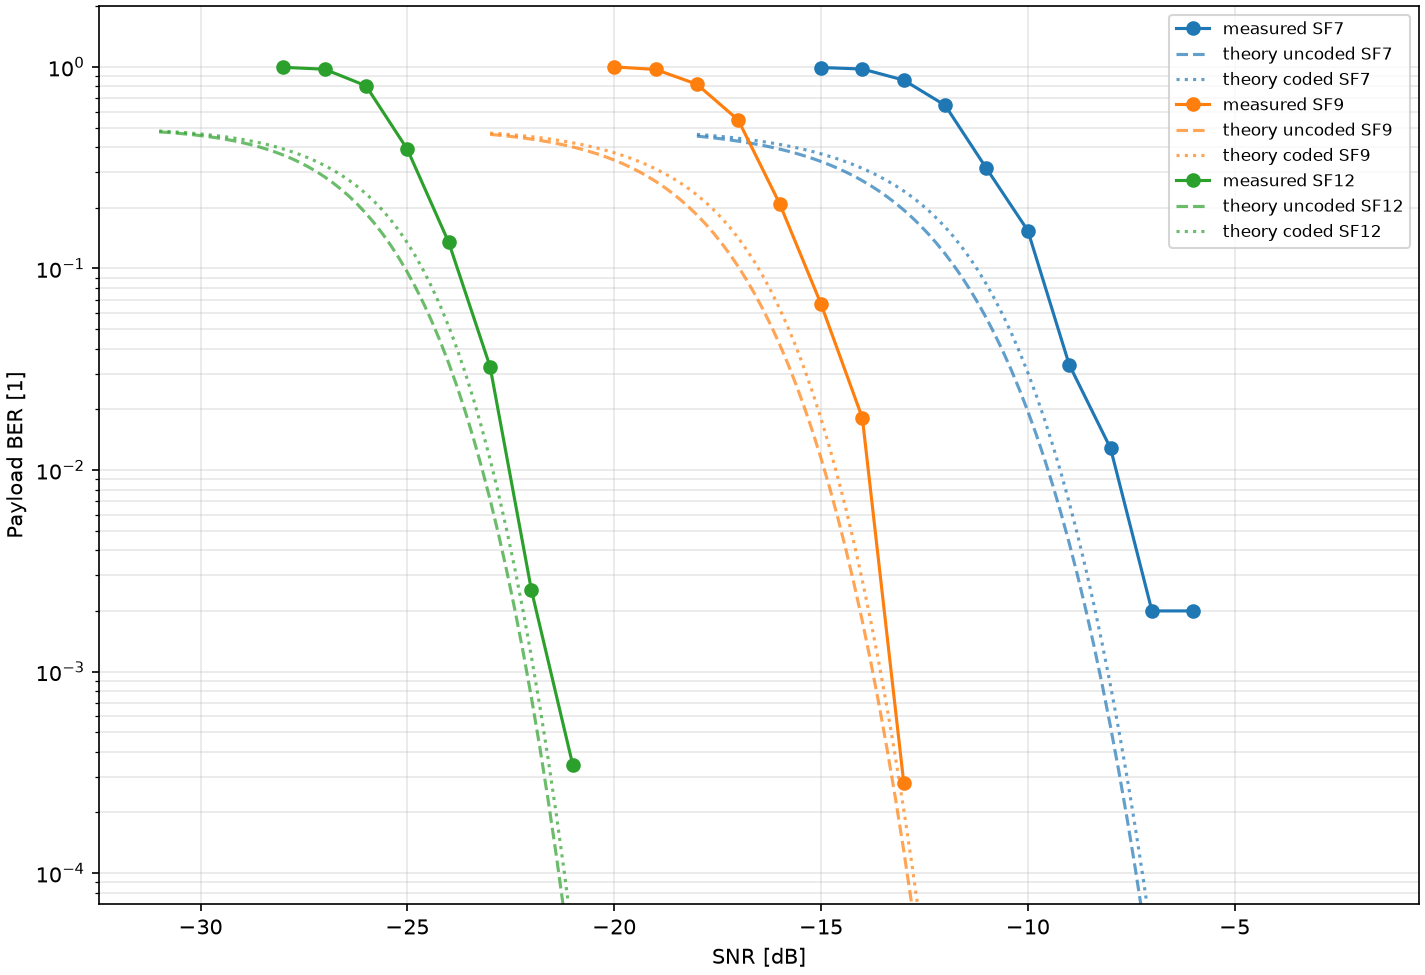
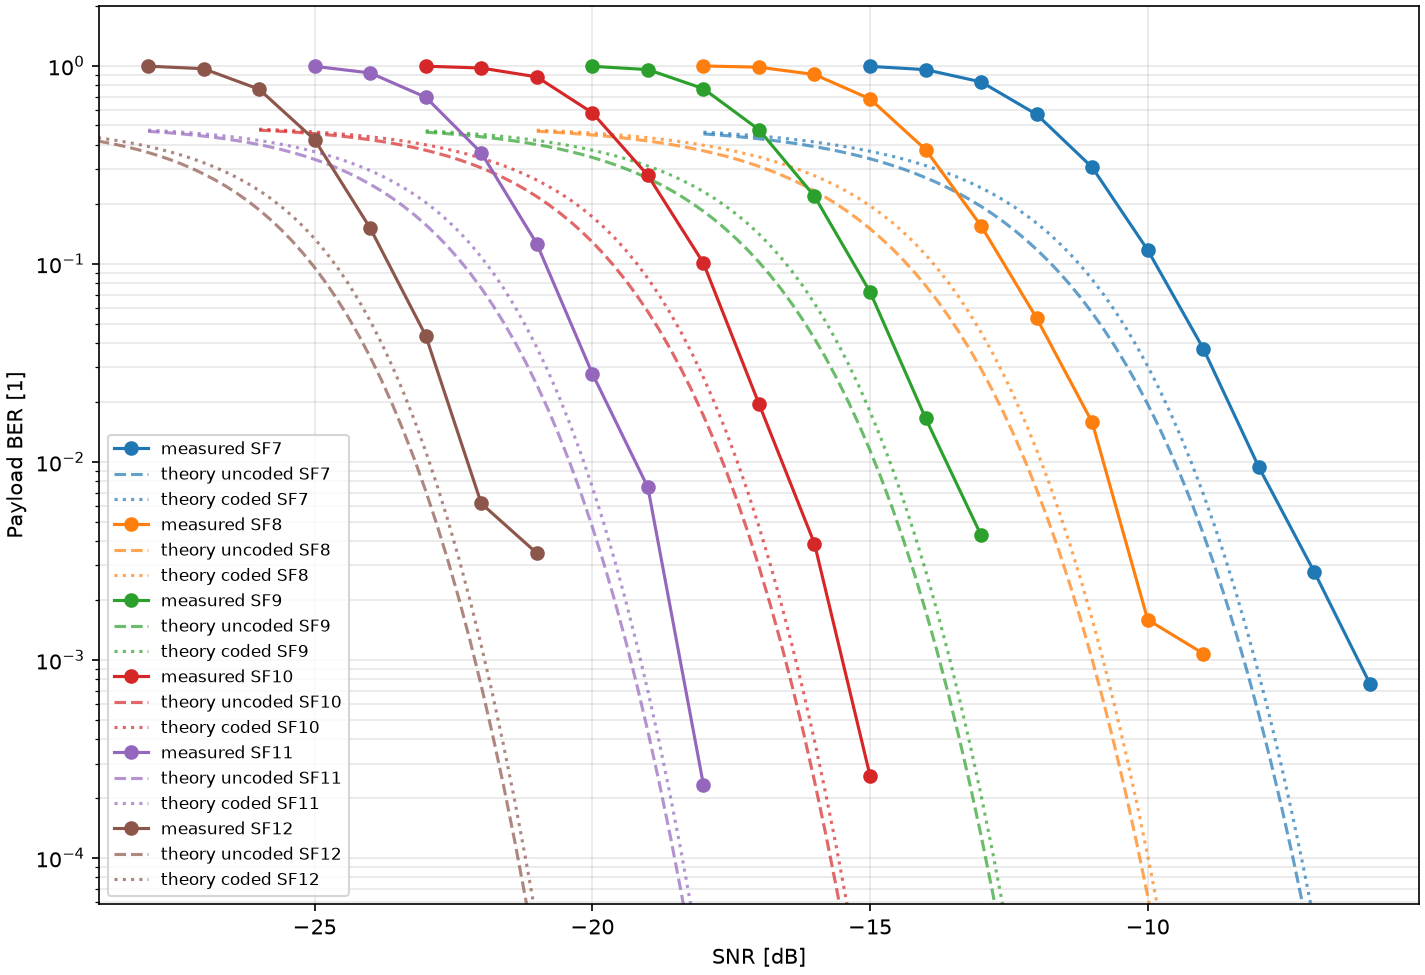
docs: update ber vs snr plot + add tool to calculate it

diff --git a/tools/ber_readme.py b/tools/ber_readme.py
@@ -1,0 +1,220 @@
+#!/usr/bin/env python3
+"""The README BER plot: measured + theory curves for every SF on one axes.
+
+Wraps ber.py: runs one sweep per SF (SNR windows pre-centered per SF, so
+no time is wasted on floor/ceiling points), parses the logs with
+ber_combine.parse and draws them the README way — one color per SF,
+measured solid with round markers, uncoded theory dashed, coded theory
+dotted, no titles or subtitles. Axes fit the measured points.
+
+example:
+  python3 tools/ber_readme.py --trials 20 --snr-step 2 --out ber-readme.png
+  # per-SF trials: default 250, but 500 for SF9, 1000 for SF12
+  python3 tools/ber_readme.py --trials '250, 9:500, 12:1000' --out ber-readme.png
+  # reuse saved sweep logs instead of running:
+  python3 tools/ber_readme.py --out ber-readme.png s7.log s9.log s12.log
+"""
+
+import argparse
+import os
+import subprocess
+import sys
+
+import matplotlib
+
+matplotlib.use("Agg")
+import re
+
+import matplotlib.pyplot as plt
+import numpy as np
+
+TOOLS = os.path.dirname(os.path.abspath(__file__))
+sys.path.insert(0, TOOLS)
+import ber_combine
+from ber import theory_ber, theory_ber_coded
+
+CR = re.compile(r"coded 4/(\d)")
+
+# per-SF default SNR windows [dB]: each curve's waterfall, roughly
+# center -12 dB (SF7) sliding 2.5-3 dB lower per SF step
+RANGE = {7: (-15, -6), 8: (-18, -9), 9: (-20, -13), 10: (-23, -15), 11: (-25, -18), 12: (-28, -21)}
+COLORS = ["tab:blue", "tab:orange", "tab:green", "tab:red", "tab:purple", "tab:brown"]
+
+
+def parse_trials(spec: str, sfs: list[int]) -> dict[int, int]:
+    """'250' or '250, 9:500, 12:1000' -> {sf: trials}.
+
+    A bare number is the default for every SF; 'SF:N' overrides one SF."""
+    trials = {}
+    for item in spec.split(","):
+        item = item.strip()
+        if not item:
+            continue
+        if ":" in item:
+            sf, n = item.split(":")
+            trials[int(sf)] = int(n)
+        else:
+            trials.update({sf: int(item) for sf in sfs})
+    return trials
+
+
+def parse_sfs(spec: str) -> list[int]:
+    """'7-12' or '7,9,12' -> sorted unique SF list."""
+    if "-" in spec:
+        lo, hi = spec.split("-")
+        return list(range(int(lo), int(hi) + 1))
+    return sorted({int(x) for x in spec.split(",")})
+
+
+def run_sweeps(args) -> list[dict]:
+    """One ber.py subprocess per SF; return its parsed sweep dicts."""
+    import shlex
+
+    logs = []
+    trials = parse_trials(args.trials, parse_sfs(args.sfs))
+    for sf in parse_sfs(args.sfs):
+        lo, hi = RANGE[sf]
+        if args.snr_min is not None:
+            lo = args.snr_min
+        if args.snr_max is not None:
+            hi = args.snr_max
+        cmd = [
+            sys.executable,
+            os.path.join(TOOLS, "ber.py"),
+            "--sf",
+            str(sf),
+            "--os",
+            str(args.os),
+            "--snr-min",
+            str(lo),
+            "--snr-max",
+            str(hi),
+            "--snr-step",
+            str(args.snr_step),
+            "--trials",
+            str(trials[sf]),
+            "--seed",
+            str(args.seed),
+            "--cr",
+            str(args.cr),
+            "--pl",
+            str(args.pl),
+            "--jobs",
+            str(args.jobs),
+        ]
+        cmd += shlex.split(args.bin_args)
+        print(f"=== SF{sf}: {' '.join(cmd[2:])}", file=sys.stderr, flush=True)
+        cp = subprocess.run(cmd, capture_output=True, text=True)
+        sys.stderr.write(cp.stderr)
+        if cp.returncode != 0:
+            raise SystemExit(f"SF{sf} sweep failed ({cp.returncode})")
+        log = os.path.join(args.tmpdir, f"sf{sf}.log")
+        with open(log, "w") as fh:
+            fh.write(cp.stdout)
+        logs.append(log)
+    return [ber_combine.parse(log) for log in logs]
+
+
+def plot(sweeps: list[dict], out: str) -> None:
+    """README-style overlay: color = SF, no titles, axes fit the data."""
+    fig, ax = plt.subplots(figsize=(9.5, 6.5), constrained_layout=True)
+    sfs = sorted({s["sf"] for s in sweeps})
+    errs = []
+    for s in sweeps:
+        color = COLORS[sfs.index(s["sf"]) % len(COLORS)]
+        cr = int(CR.search(s["cfg"]).group(1)) - 4
+        ax.semilogy(
+            s["snr"],
+            np.where(s["ber"] > 0, s["ber"], np.nan),
+            "o-",
+            color=color,
+            label=f"measured SF{s['sf']}",
+        )
+        step = np.diff(s["snr"]).min() if len(s["snr"]) > 1 else 1.0
+        t = np.arange(s["snr"][0] - 3, s["snr"][-1] + 3 + 1e-9, step / 5)
+        t_ber = theory_ber(t, s["sf"])
+        ax.semilogy(
+            t,
+            np.where(t_ber > 0, t_ber, np.nan),
+            "--",
+            color=color,
+            alpha=0.7,
+            label=f"theory uncoded SF{s['sf']}",
+        )
+        t_cod = theory_ber_coded(t_ber, cr)
+        ax.semilogy(
+            t,
+            np.where(t_cod > 0, t_cod, np.nan),
+            ":",
+            color=color,
+            alpha=0.7,
+            label=f"theory coded SF{s['sf']}",
+        )
+        errs.append(s["ber"][s["ber"] > 0])
+
+    errs = np.concatenate([e for e in errs if len(e)])
+    if len(errs):
+        ax.set_ylim(errs.min() / 4, max(2.0, errs.max() * 2))
+    # x fits the measured points too: past the last observed error there is
+    # nothing to show but empty space (theory tails get cropped with it)
+    lo = min(s["snr"].min() for s in sweeps)
+    ends = [s["snr"][s["ber"] > 0] for s in sweeps]
+    hi = max(e[-1] if len(e) else s["snr"].max() for e, s in zip(ends, sweeps))
+    pad = 0.04 * (hi - lo)
+    ax.set_xlim(lo - pad, hi + pad)
+    ax.set_xlabel("SNR [dB]")
+    ax.set_ylabel("Payload BER [1]")
+    ax.grid(True, which="both", alpha=0.3)
+    ax.legend(fontsize=8)
+    fig.savefig(out, dpi=150)
+    print(f"wrote {out}")
+
+
+def main() -> None:
+    p = argparse.ArgumentParser(
+        formatter_class=argparse.RawDescriptionHelpFormatter, description=__doc__.split("\n\n")[0]
+    )
+    p.add_argument(
+        "logs", nargs="*", help="existing ber.py sweep logs to plot instead of running sweeps"
+    )
+    p.add_argument("--sfs", default="7-12", help="SF list to sweep, e.g. '7,9,12' or '7-12'")
+    p.add_argument("--os", type=int, default=8, help="oversampling (samples/chip)")
+    p.add_argument("--snr-step", type=float, default=2, help="SNR step [dB]")
+    p.add_argument(
+        "--snr-min", type=float, default=None, help="override the per-SF SNR window start [dB]"
+    )
+    p.add_argument(
+        "--snr-max", type=float, default=None, help="override the per-SF SNR window end [dB]"
+    )
+    p.add_argument(
+        "--trials",
+        default="50",
+        help="noise realizations per SNR point: one number for all SFs, or "
+        "'250, 9:500, 12:1000' — bare number = default, SF:N overrides one SF",
+    )
+    p.add_argument("--seed", type=int, default=1, help="RNG seed (all SFs)")
+    p.add_argument("--cr", type=int, default=1, choices=(1, 2, 3, 4), help="coding rate 4/(4+cr)")
+    p.add_argument("--pl", type=int, default=8, help="payload length in bytes")
+    p.add_argument("--jobs", type=int, default=1, help="worker processes per sweep")
+    p.add_argument(
+        "--bin-args",
+        default="",
+        help="extra ber.py/binary arguments, split like a shell command line",
+    )
+    p.add_argument("--out", default="ber_readme.png", help="output PNG path")
+    args = p.parse_args()
+
+    if args.logs:
+        sweeps = [ber_combine.parse(path) for path in args.logs]
+    else:
+        import tempfile
+
+        with tempfile.TemporaryDirectory() as tmp:
+            args.tmpdir = tmp
+            sweeps = run_sweeps(args)
+
+    plot(sweeps, args.out)
+
+
+if __name__ == "__main__":
+    main()

diff --git a/tools/README.md b/tools/README.md
@@ -24,6 +24,7 @@ with `--help` (module docstring plus argparse).
 | `ber.py` | → BER curve | Monte Carlo end-to-end information BER over the shipped binary (`--cr`, PER from CRC verdicts). Table on stdout; `--verdicts` gives aligned A/B files, `--bin-args` prices the same draws under different flags; `--theory` overlays the closed-form AWGN uncoded BER and its coded estimate through the 4/(4+cr) Hamming chain |
 | `mesh_rx.py` | rtl_lora → MeshPackets + node-db.json | Live Meshtastic front end: runs `bin/rtl_lora` (args forwarded), rebuilds each decoded frame's `MeshPacket` from the 16-byte on-air header parsed out of its JSONL stdout, decrypts with a channel map (`channels.json`, gitignored, built by the external `mesh_udp.py`), and prints one compact block per packet (node names resolved from a persistent `node-db.json` tracker, gitignored). `--verbose` dumps the full protobuf, `--json` emits NDJSON. Needs `meshtastic` + `cryptography`; `--replay` decodes a saved stdout capture without a radio |
 | `ber_combine.py` | N logs → one plot | Overlays saved `ber.py` tables. Color separates SF/payload/file |
+| `ber_readme.py` | → README-style plot | The `img/ber-vs-snr.png` generator: runs one `ber.py` sweep per SF (per-SF pre-centered SNR windows) and overlays measured (solid, markers) with the closed-form theory (uncoded dashed, coded dotted), one color per SF, no titles. Give it saved sweep logs to replot instead of sweeping |
 | `regression.py` | → PASS/FAIL matrix | The commit gate: C-binary end-to-end decodes plus the real `data/capture*` frames in three netid arms. SKIPs (never FAILs) on a missing dep or unfetched LFS pointer |
 | `regression_perf.py` | → RTx matrix | The gate's speed twin: same verdicts plus the real-time multiplier per line. Verdicts gate the exit code, never the speed |
 

diff --git a/README.md b/README.md
@@ -1,7 +1,7 @@
-# rxx_lora
-
 [![CI](https://github.com/xdab/rxx_lora/actions/workflows/ci.yml/badge.svg)](https://github.com/xdab/rxx_lora/actions/workflows/ci.yml)
 [![License: GPL v3](https://img.shields.io/badge/License-GPLv3-blue.svg)](LICENSE.md)
+
+# rxx_lora
 
 A plug-and-play RTL-SDR **[LoRa](https://lora-alliance.org/)** receiver in the spirit of
 [`rtl_fm`](https://gitea.osmocom.org/sdr/rtl-sdr/src/branch/master/src/rtl_fm.c):
